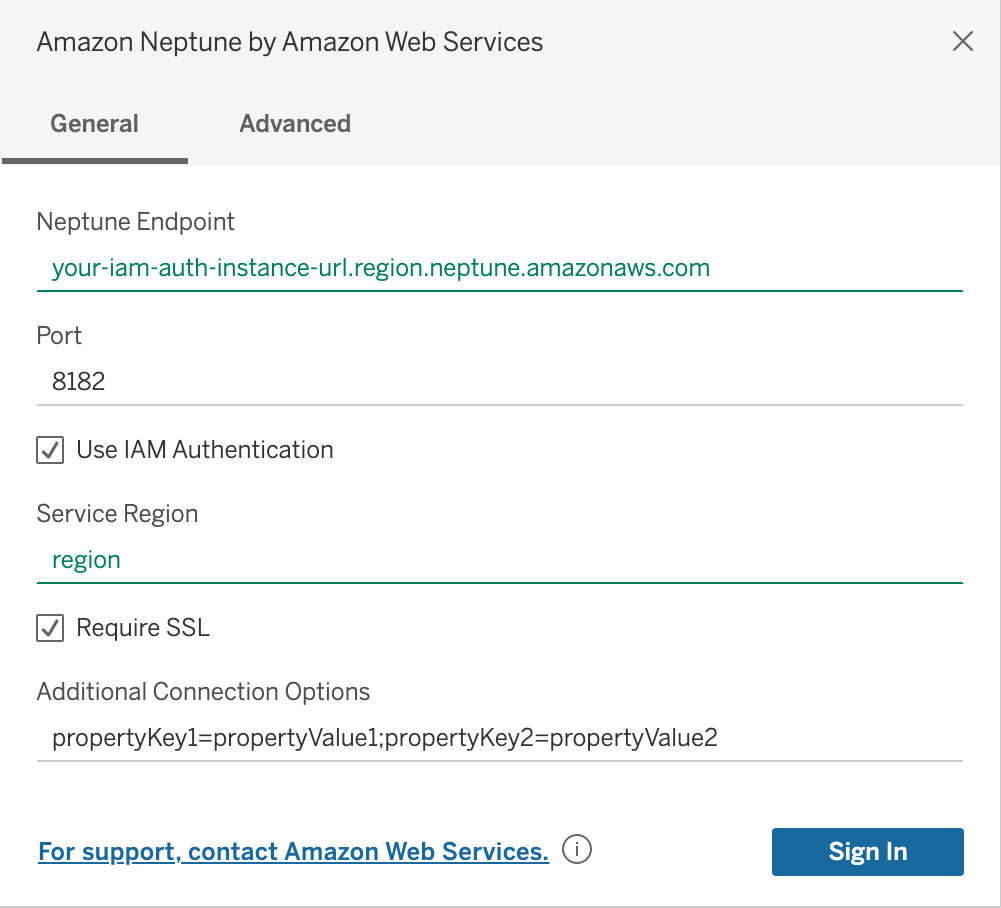
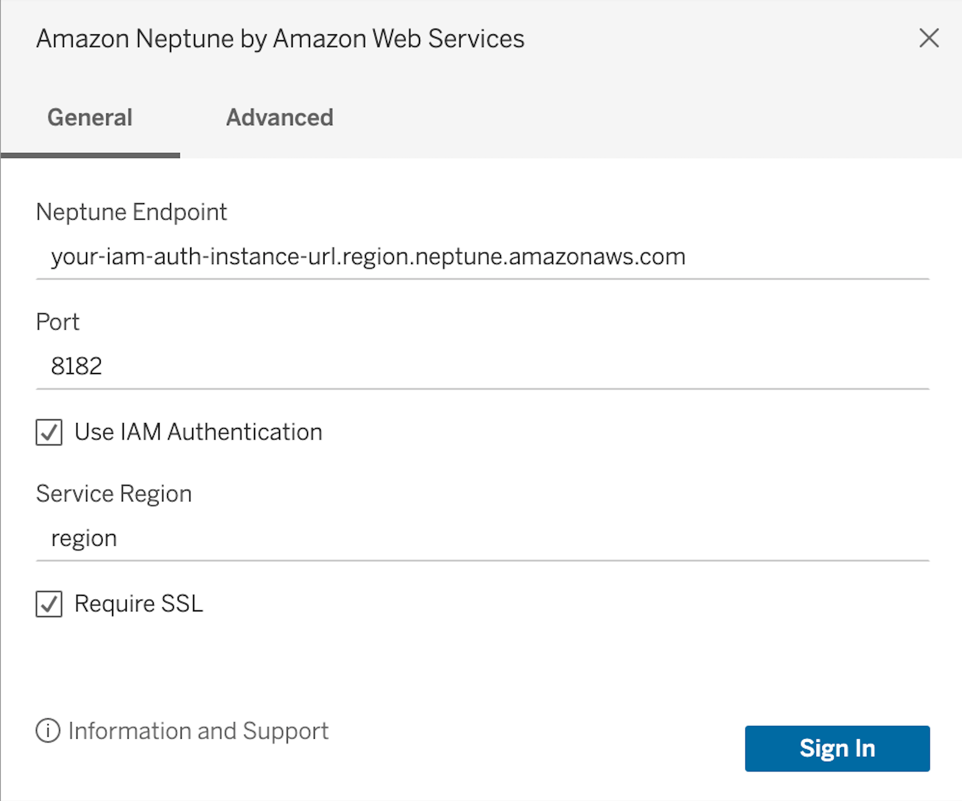
Updating Tableau Connector Fields (#225)
* updating tableau connector fields

* remove unneeded comments

diff --git a/tableau-connector/src/connectionProperties.js b/tableau-connector/src/connectionProperties.js
@@ -1,19 +1,17 @@
 (function propertiesbuilder(attr) {
-    const SSH_USER="sshUser"
-    const SSH_HOST="sshHost"
-    const SSH_PRIV_KEY_FILE="sshPrivateKeyFile"
-    const SSH_PRIVATE_KEY_PASSPHRASE="sshPrivateKeyPassphrase"
-    const SSH_STRICT_HOST_KEY_CHECKING="sshStrictHostKeyChecking"
-    const SSH_KNOWN_HOSTS_FILE="sshKnownHostsFile"
+
     const AUTH_SCHEME_KEY = "authScheme";
     const USE_ENCRYPTION_KEY = "enableSsl";
     const SERVICE_REGION_KEY = "serviceRegion";
+    const LOG_LEVEL="logLevel";
+    const SCAN_TYPE="scanType";
+    const CONN_TIMEOUT="connectionTimeout";
+    const CONN_RETRY="connectionRetryCount";
 
     // This script is only needed if you are using a JDBC driver.
     var params = {};
 
     // Set keys for properties needed for connecting using JDBC.
-
     var authAttrValue = attr[connectionHelper.attributeAuthentication];
     if (authAttrValue == "auth-none")
         params[AUTH_SCHEME_KEY] = "None";
@@ -29,27 +27,10 @@
         params[USE_ENCRYPTION_KEY] = "false";
     }
 
-    params[SSH_USER] = attr["v-ssh-user"];
-    params[SSH_HOST] = attr["v-ssh-host"];
-    params[SSH_PRIV_KEY_FILE] = attr["v-ssh-priv-key-filename"];
-    params[SSH_PRIVATE_KEY_PASSPHRASE] = attr["v-ssh-priv-key-passphrase"];
-    params[SSH_STRICT_HOST_KEY_CHECKING] = attr["v-ssh-strict-host-key-check"];
-    params[SSH_KNOWN_HOSTS_FILE] = attr["v-ssh-known-hosts-file"];
+    params[LOG_LEVEL] = attr["v-log-level"];
+    params[SCAN_TYPE] = attr["v-scan-type"];
+    params[CONN_TIMEOUT] = attr["v-connection-timeout"];
+    params[CONN_RETRY] = attr["v-connection-retry"];
 
-    // Format the attributes as 'key=value'. By default some values are escaped or wrapped in curly braces to follow the JDBC standard, but you can also do it here if needed.
-    var formattedParams = [];
-    for (var key in params) {
-        formattedParams.push(connectionHelper.formatKeyValuePair(key, params[key]));
-    }
-
-    // Format the additional option 'keys=value' pairs into the connection properties.
-    if (attr['v-additional-properties']) {
-        var additionalProperties = attr['v-additional-properties'].split(";");
-        for (var i = 0; i < additionalProperties.length; i++) {
-            const val = additionalProperties[i];
-            formattedParams.push(val);
-        }
-    }
-
-    return formattedParams;
+    return params;
 })

diff --git a/tableau-connector/src/connectionBuilder.js b/tableau-connector/src/connectionBuilder.js
@@ -1,10 +1,5 @@
 (function dsbuilder(attr){
     var urlBuilder = "jdbc:neptune:sqlgremlin://" + attr["server"] + ";port=" + attr["port"];
 
-    var additionalOptions = attr['v-additional-properties'];
-    if (additionalOptions) {
-        urlBuilder += ";" + additionalOptions;
-    }
-
     return [urlBuilder];
 })

diff --git a/markdown/bi-tools/tableau.md b/markdown/bi-tools/tableau.md
@@ -29,9 +29,9 @@ Download the latest version of [Tableau Desktop](https://www.tableau.com/product
 
 #### Connecting to Amazon Neptune Using Tableau - External SSH Tunnel
 
-1. If connecting from outside the Neptune cluster's VPC, ensure you have followed the [configuration instructions](../setup/configuration.md).
+1. If connecting from outside the Neptune cluster's VPC, ensure you have followed the [configuration instructions](../setup/configuration.md) for your Neptune instance and local SSH tunnel.
 
-2. Enter the connection parameters as shown below. **Neptune Endpoint**, **Port**, **Use IAM Authentication** (and **Service Region** if IAM is selected), and **Require SSL** are required. Additional Connection Options can be filled in the form of `propertyKey=propertyValue`, with multiple properties separated by `;`. Descriptions of each required and optional parameters can be found in the [SQL JDBC documentation](../sql.md).
+2. Enter the connection parameters as shown below. **Neptune Endpoint**, **Port**, **Use IAM Authentication** (and **Service Region** if IAM is selected), and **Require SSL** are required. 
 
 Example for connecting to an instance without IAM authentication:
 <p align="center">
@@ -42,9 +42,9 @@ Example for connecting to an instance with IAM authentication. Note that service
 <img alt="iam-auth" src="../images/iam_auth.png" width="55%"/>
 </p>
 
-3. If you would like an SSH tunnel setup within the driver between the Neptune service and an EC2 instance, an internal SSH tunnel can be configured by the driver by filling in the advanced options tab. **Minimally, an SSH user, SSH host name (or ip address), and private key file must be provided.** A passphrase for the private key file and hosts file may also be provided. Strict host checking can be disabled if required, however this is less secure.
+3. Additional connection options can be configured in the Advanced tab. Descriptions of each parameter can be found in the [SQL JDBC documentation](../sql.md). Please note that we have disabled all SSH tunnel options in the Tableau connector, due to potentially processing sensitive information. Please set up your SSH tunnel according to the [configuration instructions](../setup/configuration.md#using-an-ssh-tunnel-to-connect-to-amazon-neptune). 
 <p align="center">
-<img alt="ssh_tunnel" src="../images/ssh_tunnel.png" width="55%"/>
+<img alt="add_opts" src="../images/add_opts.png" width="55%"/>
 </p>
 
 4. Click the **Sign In** button.

diff --git a/markdown/setup/configuration.md b/markdown/setup/configuration.md
@@ -35,7 +35,7 @@ You can set up an SSH tunnel to the Amazon Neptune cluster `sample-cluster.node.
 
 Note: The username of the ec2 connection depends on the type of your ec2 instance. In the below example, we are using Ubuntu.
 ```
-ssh -i "ec2Access.pem" -L 8182:sample-cluster.node.us-east-1.docdb.amazonaws.com:8182 ubuntu@ec2-34-229-221-164.compute-1.amazonaws.com -N 
+ssh -i "ec2Access.pem" -L 8182:sample-cluster.node.us-east-1.neptune.amazonaws.com:8182 ubuntu@ec2-34-229-221-164.compute-1.amazonaws.com -N 
 ```
 
 This is a prerequisite for connecting to any BI tool running on a client outside your VPC.
@@ -47,7 +47,7 @@ Add the following line to the list of hosts lookup:
 `127.0.0.1        <endpoint>`
 
 From our sample above, we would use:
-`127.0.0.1        sample-cluster.node.us-east-1.docdb.amazonaws.com`
+`127.0.0.1        sample-cluster.node.us-east-1.neptune.amazonaws.com`
 
 ### Setup Environment for IAM Authentication
 
